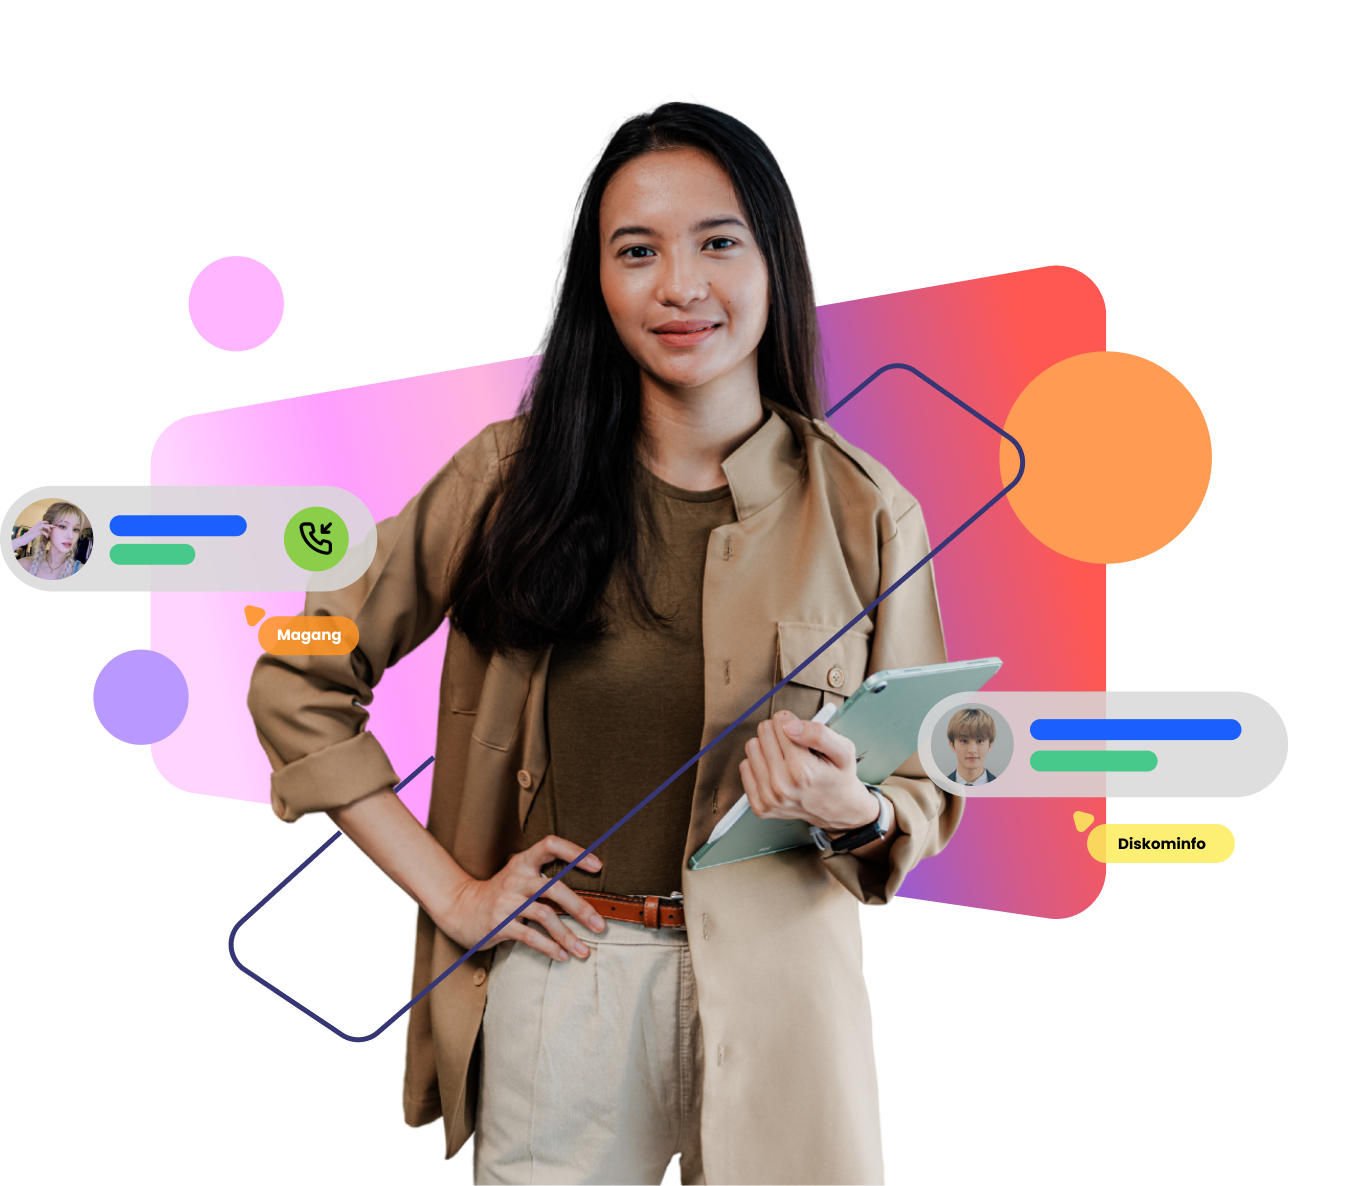
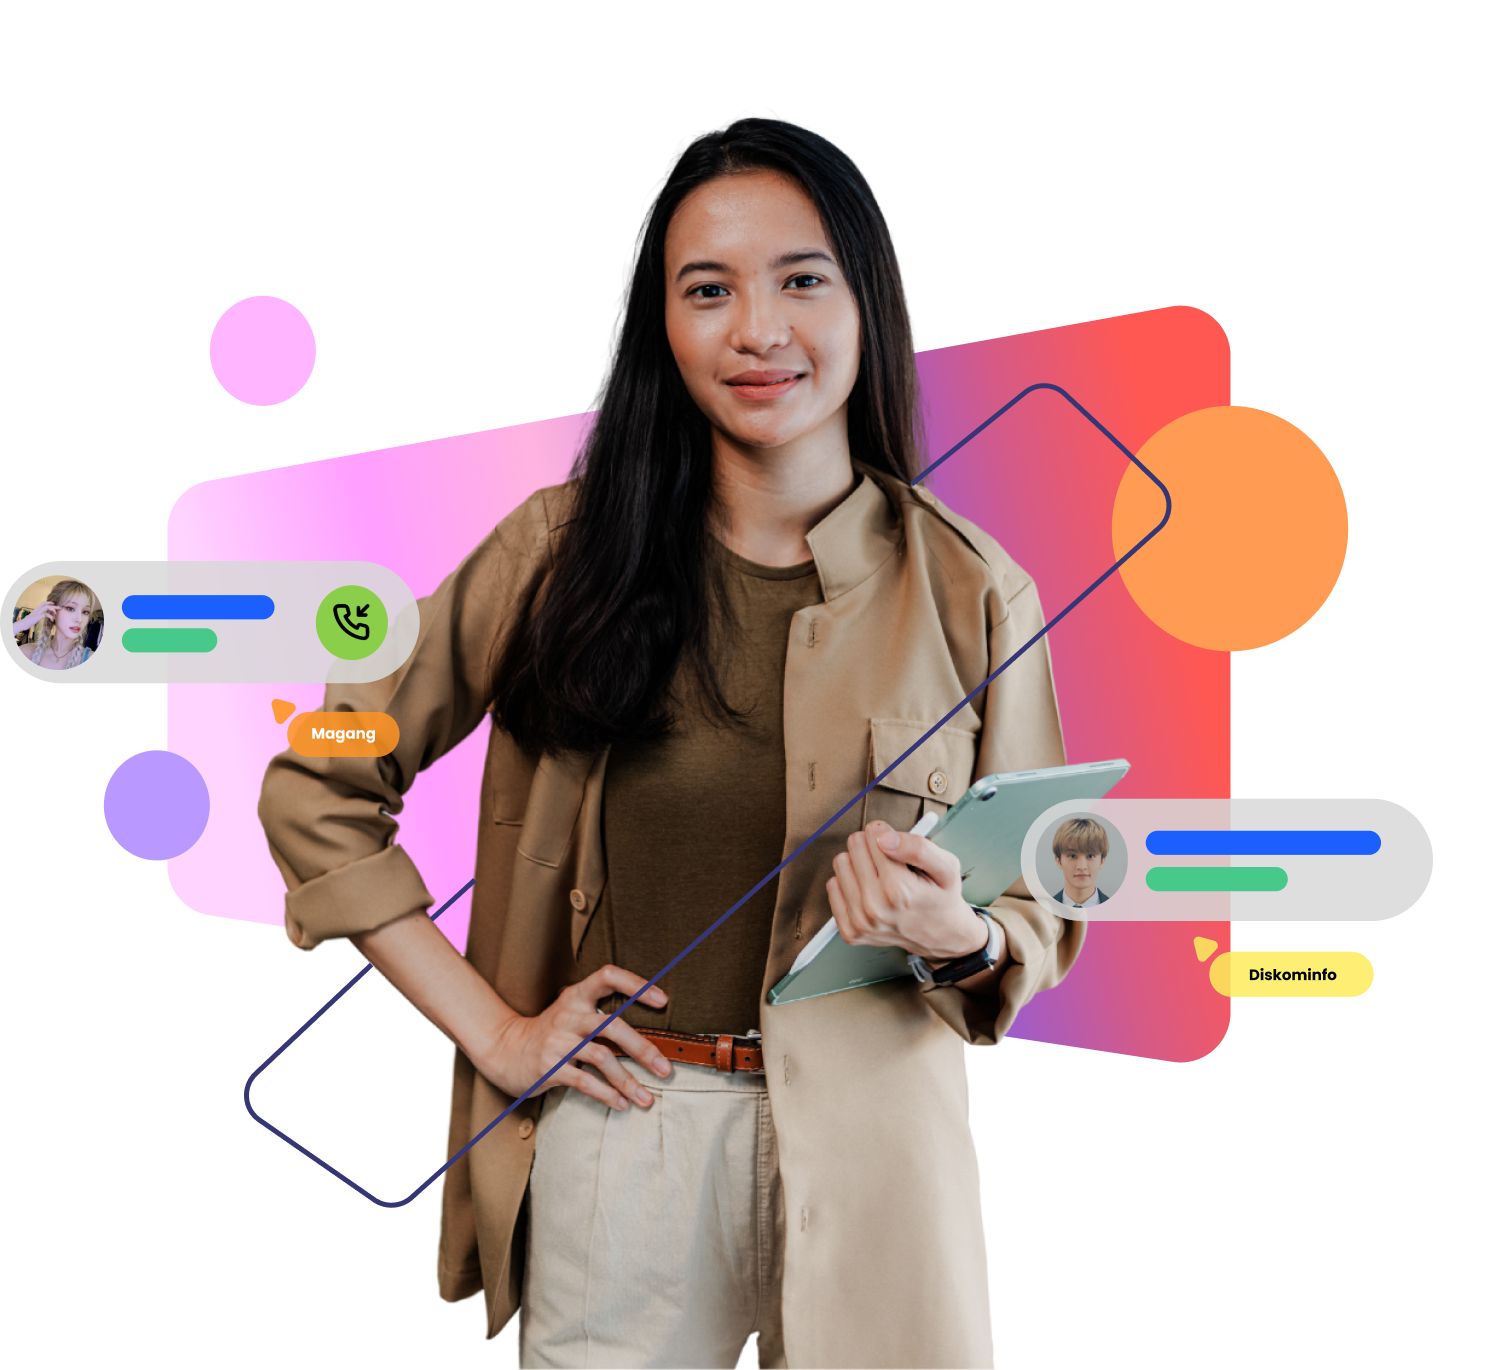
ui_login(new)

diff --git a/resources/views/login/index.blade.php b/resources/views/login/index.blade.php
@@ -88,7 +88,7 @@
     <body>
       <section class="form d-flex">
         {{-- Left --}}
-        <div class="login-left w-50 h-100">
+        <div class="login-left w-50 h-100" style="position: fixed">
           <div class="row justify-content-center align-items-center h-100">
             <div class="col-lg-8">
   
@@ -156,24 +156,20 @@
   
         {{-- Right --}}
         <div class="login-right w-50 h-100" style="position:fixed; margin-left:50%">
-            <img src="assets/magang_1.png" class="img-fluid" alt="">
-        </div> 
-
-        {{-- <div class="login-right w-50 h-100">
-            <div class="row justify-content-center align-items-center h-100">
+            {{-- <div class="row justify-content-center align-items-center h-100"> --}}
               <div id="carouselExampleFade" class="carousel slide carousel-fade" data-bs-ride="carousel">
-                <div class="carousel-inner"> --}}
+                <div class="carousel-inner">
                   {{-- Gambar 1 --}}
-                  {{-- <div class="carousel-item active">
-                    <img src="assets/login_1.png" class="d-block w-100" alt="">
-                  </div> --}}
+                  <div class="carousel-item active">
+                    <img src="assets/magang_1.png" class="img-fluid" alt="">
+                  </div>
                   {{-- Gambar 2 --}}
-                  {{-- <div class="carousel-item">
-                    <img src="assets/login_2.png" class="d-block w-100" alt="">
-                  </div> --}}
+                  <div class="carousel-item">
+                    <img src="assets/magang_3.png" class="img-fluid" alt="">
+                  </div>
                   {{-- Gambar 3 --}}
-                  {{-- <div class="carousel-item">
-                    <img src="assets/login_3.png" class="d-block w-100" alt="">
+                  <div class="carousel-item">
+                    <img src="assets/magang_2.png" class="d-block w-100" alt="">
                   </div>
                 </div>
                 <button class="carousel-control-prev" type="button" data-bs-target="#carouselExampleFade" data-bs-slide="prev">
@@ -185,8 +181,8 @@
                   <span class="visually-hidden">Next</span>
                 </button>
               </div>
-            </div>
-          </div> --}}
+            {{-- </div> --}}
+          </div>
       </section>
   
       <!-- Option 1: Bootstrap Bundle with Popper -->
